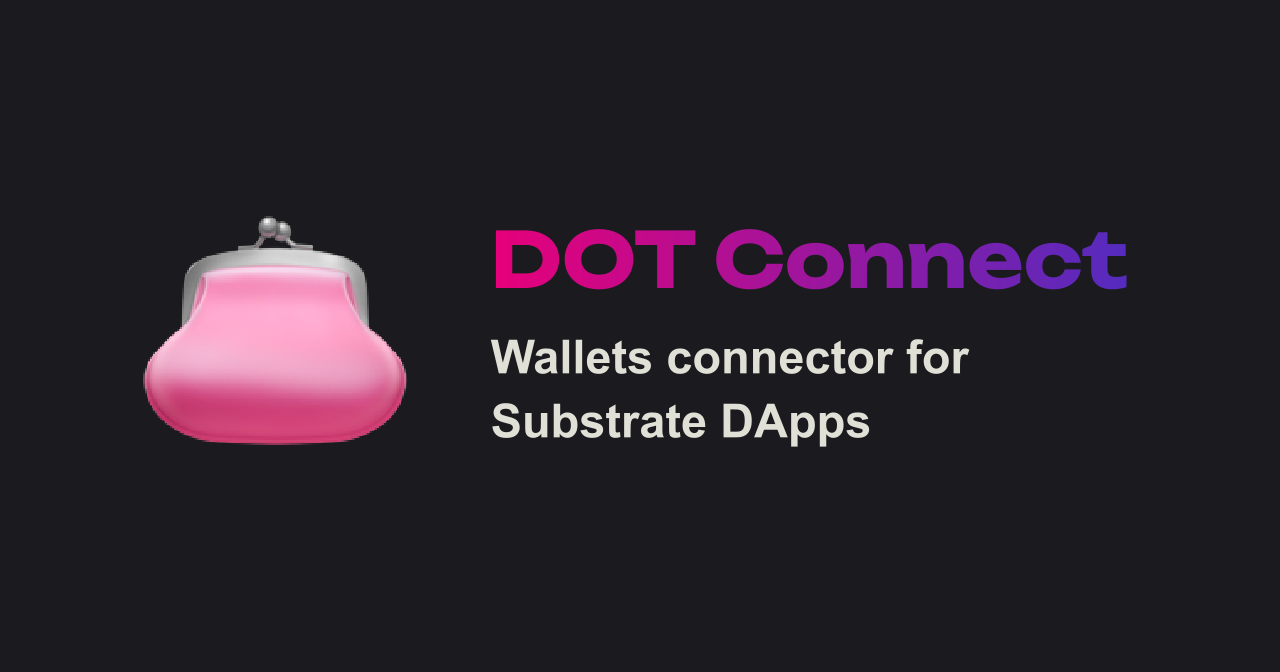
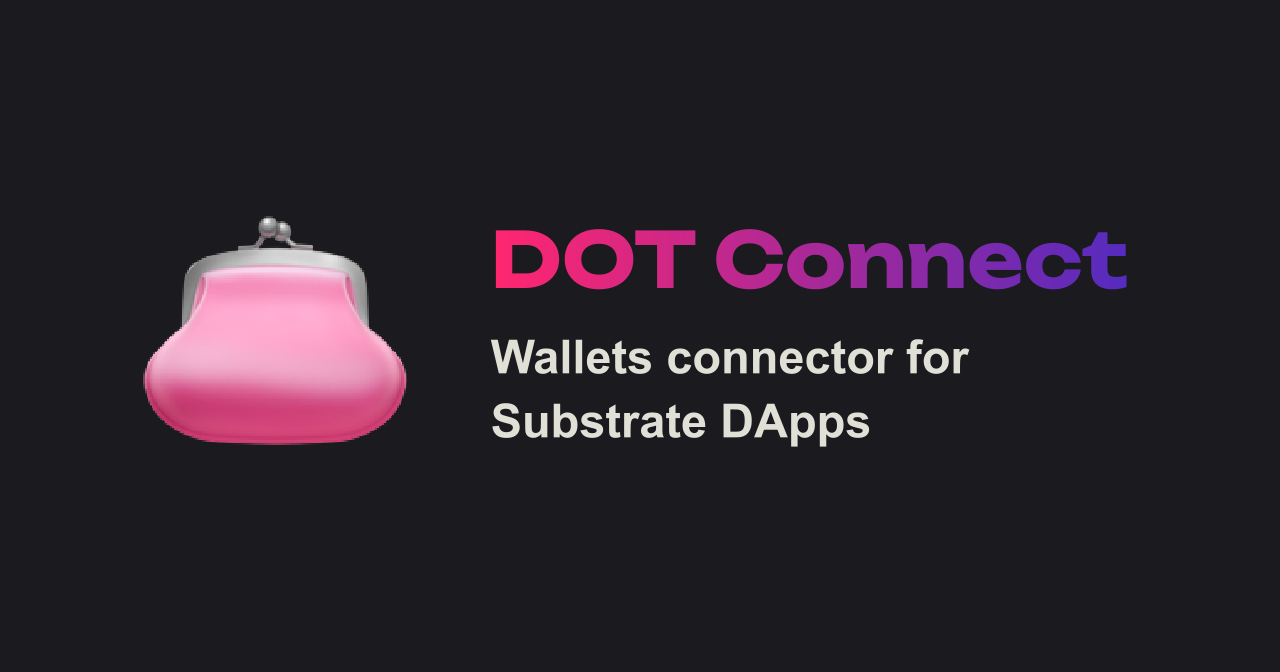
feat: better default color palette (#79)

Changed region(s): [[0.375, 0.3438, 0.5625, 0.4375]]

diff --git a/packages/dot-connect/src/elements/components/element.ts b/packages/dot-connect/src/elements/components/element.ts
@@ -7,15 +7,18 @@ export abstract class DotConnectElement extends SignalWatcher(LitElement) {
       --headline-font-family: var(--dc-headline-font-family, Unbounded);
       --body-font-family: var(--dc-body-font-family, Inter);
 
-      --primary-color: var(--dc-primary-color, #e6007a);
-      --on-primary-color: var(--dc-on-primary-color, white);
+      --primary-color: var(--dc-primary-color, #ff2670);
+      --on-primary-color: var(--dc-on-primary-color, #ffffff);
 
-      --surface-color: var(--dc-surface-color, light-dark(white, #1a1b1f));
-      --on-surface-color: var(--dc-on-surface-color, light-dark(black, white));
+      --surface-color: var(--dc-surface-color, light-dark(#ffffff, #1e1e1e));
+      --on-surface-color: var(
+        --dc-on-surface-color,
+        light-dark(#000000, #ffffff)
+      );
 
-      --info-color: var(--dc-info-color, #0e76fd);
-      --success-color: var(--dc-success-color, #1db847);
-      --error-color: var(--dc-error-color, #ff494a);
+      --info-color: var(--dc-info-color, light-dark(#007aff, #0a84ff));
+      --success-color: var(--dc-success-color, light-dark(#34c759, #30d158));
+      --error-color: var(--dc-error-color, light-dark(#ff3b30, #ff453a));
 
       --max-border-radius: var(--dc-max-border-radius, 999px);
     }
@@ -61,22 +64,31 @@ export abstract class DotConnectElement extends SignalWatcher(LitElement) {
       }
 
       &.info {
-        color: var(--info-color);
+        color: light-dark(
+          var(--info-color),
+          color-mix(in srgb, var(--info-color), var(--surface-color) 10%)
+        );
       }
 
       &.success {
-        color: var(--success-color);
+        color: light-dark(
+          var(--success-color),
+          color-mix(in srgb, var(--success-color), var(--surface-color) 10%)
+        );
       }
 
       &.error {
-        color: var(--error-color);
+        color: light-dark(
+          var(--error-color),
+          color-mix(in srgb, var(--error-color), var(--surface-color) 10%)
+        );
       }
 
       &.info,
       &.success,
       &.error {
         background-color: light-dark(
-          color-mix(in srgb, var(--on-surface-color), transparent 90%),
+          color-mix(in srgb, var(--on-surface-color), transparent 95%),
           var(--on-surface-color)
         );
       }

diff --git a/apps/docs/components/Customiser.vue b/apps/docs/components/Customiser.vue
@@ -4,18 +4,23 @@ import { ref, computed } from "vue";
 
 const colourScheme = ref<"inherit" | "light" | "dark">("inherit");
 
-const primary = ref("#e6007a");
+const primary = ref("#ff2670");
 const onPrimary = ref("#ffffff");
 
 const surface = ref("#ffffff");
-const surfaceDark = ref("#1a1b1f");
+const surfaceDark = ref("#1e1e1e");
 
 const onSurface = ref("#000000");
 const onSurfaceDark = ref("#ffffff");
 
-const info = ref("#0e76fd");
-const success = ref("#1db847");
-const error = ref("#ff494a");
+const info = ref("#007aff");
+const infoDark = ref("#0a84ff");
+
+const success = ref("#34c759");
+const successDark = ref("#30d158");
+
+const error = ref("#ff3b30");
+const errorDark = ref("#ff453a");
 
 const maxBorderRadius = ref(25);
 
@@ -25,9 +30,9 @@ const style = computed(() => ({
   "--dc-on-primary-color": onPrimary.value,
   "--dc-surface-color": `light-dark(${surface.value}, ${surfaceDark.value})`,
   "--dc-on-surface-color": `light-dark(${onSurface.value}, ${onSurfaceDark.value})`,
-  "--dc-info-color": info.value,
-  "--dc-success-color": success.value,
-  "--dc-error-color": error.value,
+  "--dc-info-color": `light-dark(${info.value}, ${infoDark.value})`,
+  "--dc-success-color": `light-dark(${success.value}, ${successDark.value})`,
+  "--dc-error-color": `light-dark(${error.value}, ${errorDark.value})`,
   "--dc-max-border-radius": maxBorderRadius.value + "px",
 }));
 
@@ -101,8 +106,18 @@ function toCss(style: Record<string, any>) {
             </section>
             <section>
               <label><input type="color" v-model="info" /> Info</label>
+              <label
+                ><input type="color" v-model="infoDark" /> Info (Dark)</label
+              >
               <label><input type="color" v-model="success" /> Success</label>
+              <label
+                ><input type="color" v-model="successDark" /> Success
+                (Dark)</label
+              >
               <label><input type="color" v-model="error" /> Error</label>
+              <label
+                ><input type="color" v-model="errorDark" /> Error (Dark)</label
+              >
             </section>
           </div>
         </fieldset>

diff --git a/apps/docs/.vitepress/theme/style.css b/apps/docs/.vitepress/theme/style.css
@@ -51,8 +51,8 @@
 
   --vp-c-brand-1: #00b2ff;
   --vp-c-brand-2: #552bbf;
-  --vp-c-brand-3: #e6007a;
-  --vp-c-brand-soft: #e6007a;
+  --vp-c-brand-3: #ff2670;
+  --vp-c-brand-soft: #ff2670;
 
   --vp-c-tip-1: var(--vp-c-brand-1);
   --vp-c-tip-2: var(--vp-c-brand-2);

diff --git a/.changeset/sour-dancers-help.md b/.changeset/sour-dancers-help.md
@@ -1,0 +1,5 @@
+---
+"dot-connect": minor
+---
+
+Changed the default color palette to a more neutral one.
